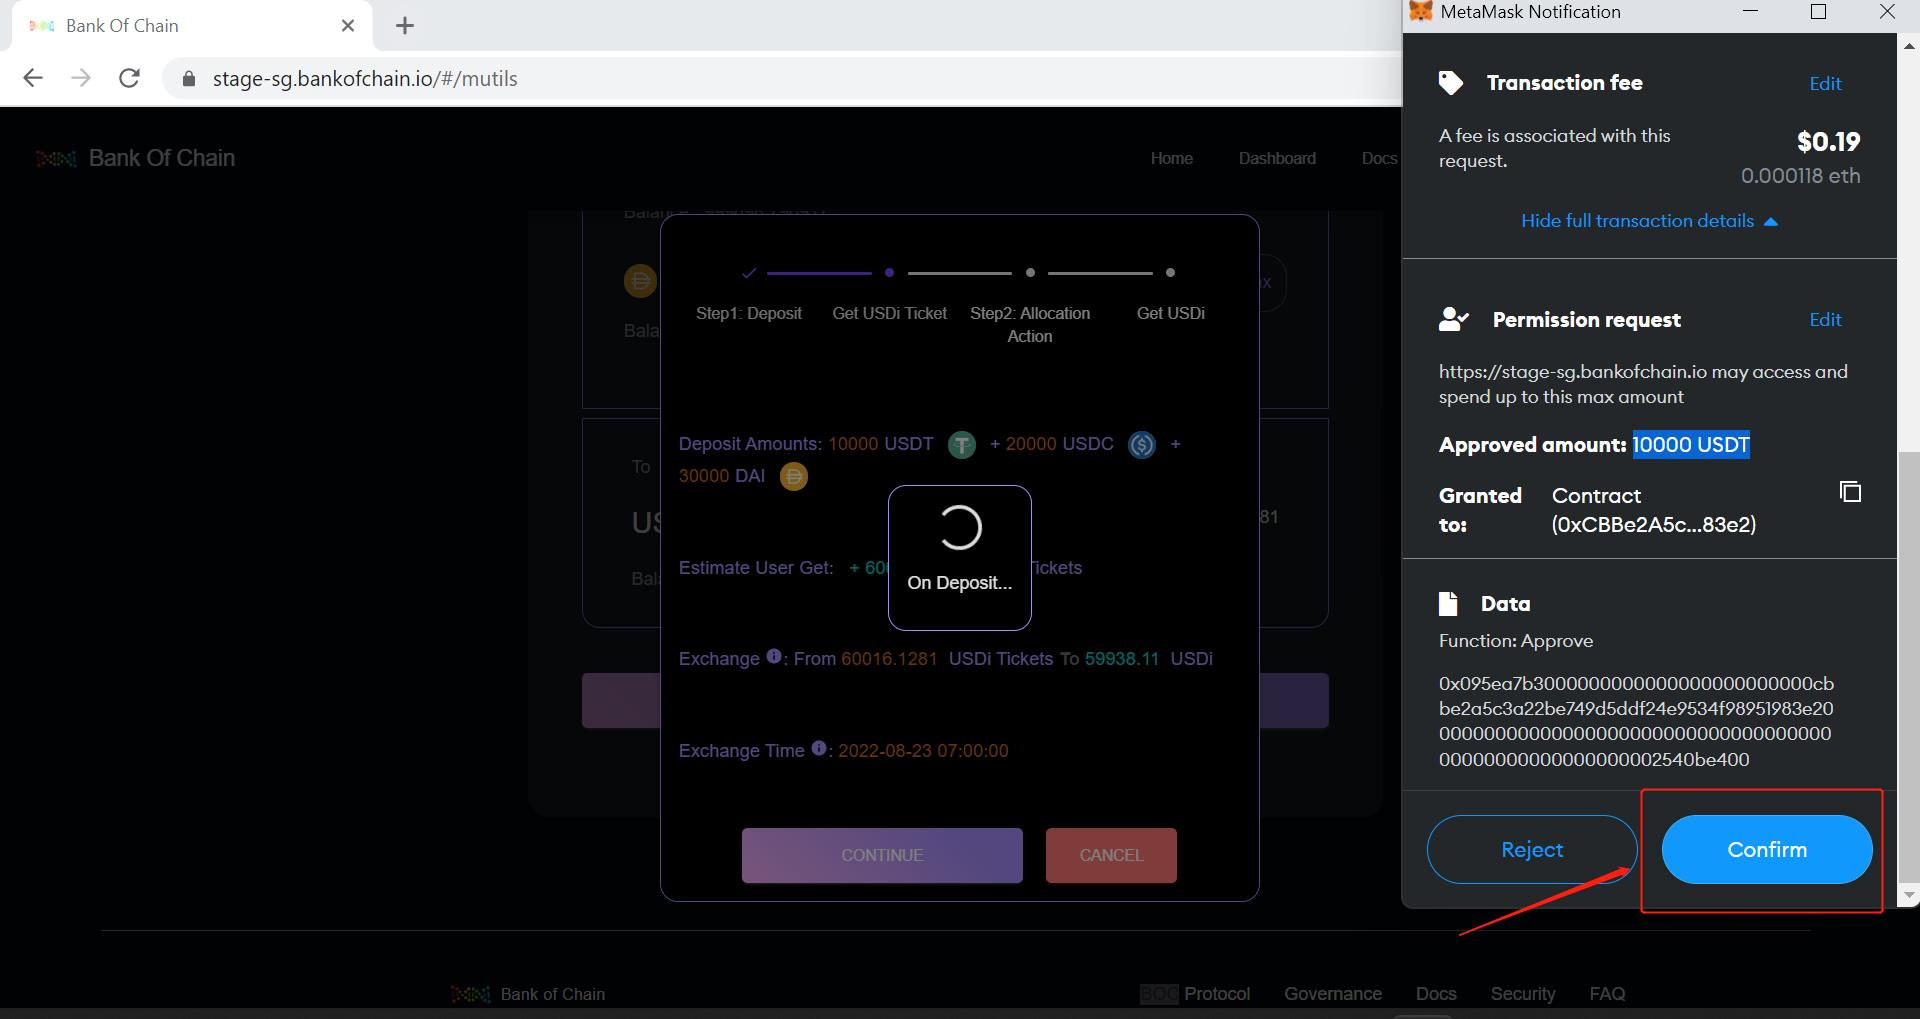
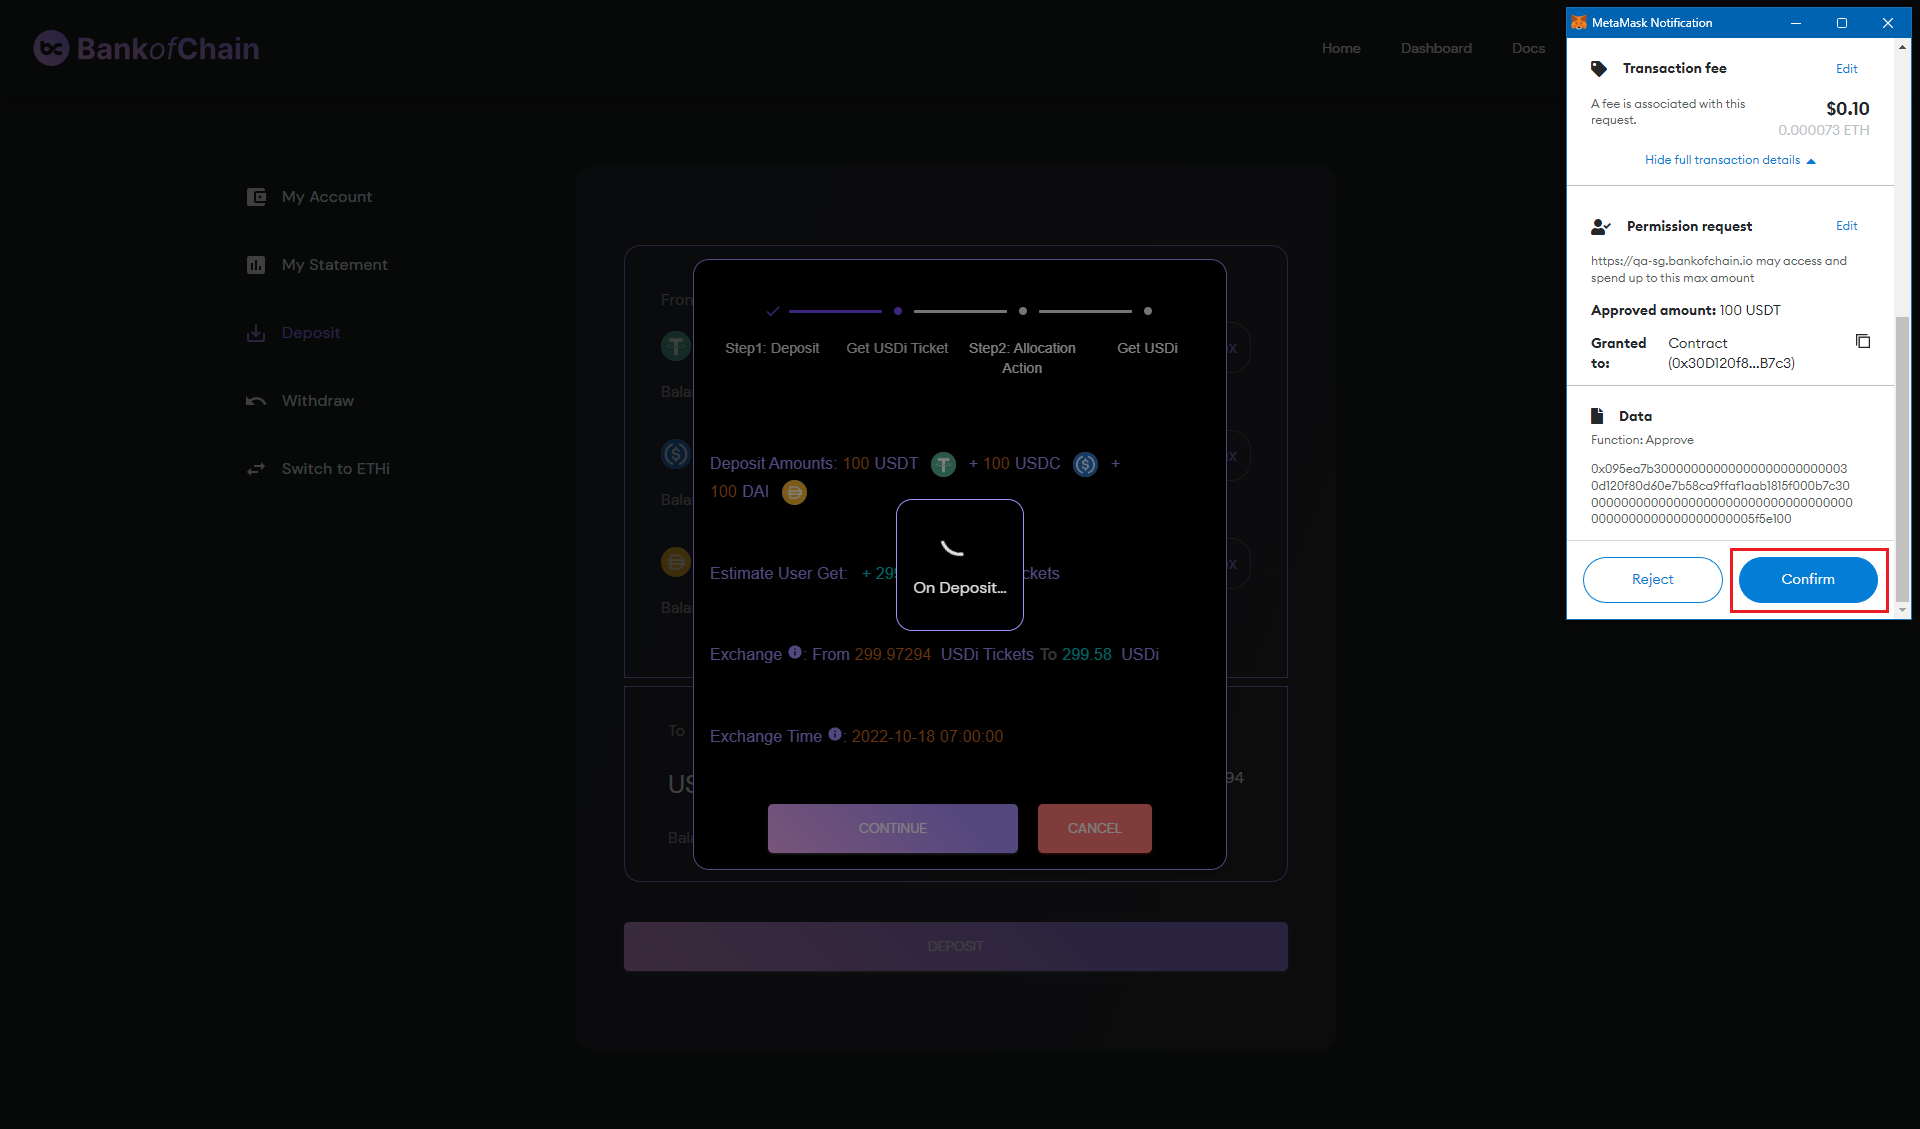
GitBook: [#46] user_handbook update

diff --git a/boc/user-handbook.md b/boc/user-handbook.md
@@ -4,31 +4,25 @@
 
 Here is a quick guide on interacting and investing with the BoC platform. To complete the investment in BoC, we first start off from the user investment page. Go to the [home page](https://bankofchain.io/#/) and click on the `LAUNCH APP` button. You will now be directed to the main page of the APP.
 
-<figure><img src="../.gitbook/assets/user_handbook_LaunchApp1.png" alt=""><figcaption></figcaption></figure>
+<figure><img src="../.gitbook/assets/user_handbook_LaunchApp1.png" alt=""><figcaption><p>Figure 1: Launch App</p></figcaption></figure>
 
 ### Wallet Connection
 
 We can interact with BoC through [wallets](../more/appendix.md#wallet). The APP is compatible with [MetaMask](https://metamask.io/) and [WalletConnect](https://walletconnect.com/). By clicking on the `CONNECT WALLET` button, your wallet could be connected.
 
-![](../.gitbook/assets/user\_handbook\_ConnectWallet.png)
+<figure><img src="../.gitbook/assets/user_handbook_ConnectWallet (1).png" alt=""><figcaption><p>Figure 2: Connect Wallet</p></figcaption></figure>
 
 If your wallet has been successfully connected, your wallet address will appear on the `CONNECT WALLET` button.
 
-![](../.gitbook/assets/user\_handbook\_wallet\_connected.png)
+<figure><img src="../.gitbook/assets/user_handbook_wallet_connected.png" alt=""><figcaption><p>Figure 3: Wallet successfully connected, with the wallet address being displayed.</p></figcaption></figure>
 
 ### Parameter Settings
 
-#### Cross-chain Bridge
-
-BoC provides two [cross-chain bridge](../more/appendix.md#bridge) options, which are the Polygon Bridge and the BNB Bridge, to fulfil the demand of cross-chain operations.
-
-![](../.gitbook/assets/user\_handbook\_bridge.png)
-
 #### Switch Chain
 
-At present, BoC works on Ethereum, BNB Chain and Polygon. If chain switching is required, this could be carried out by clicking on `NETWORKS` to select the desired chain to be switched to.
+At present, BoC works on Ethereum chain only. The deployment of Polygon chain is currently under progress. Once Polygon has been deployed, if chain switching is required, this could be carried out by clicking on `NETWORKS` to select the desired chain to be switched to.
 
-![](../.gitbook/assets/user\_handbook\_network.png)
+<figure><img src="../.gitbook/assets/user_handbook_network.png" alt=""><figcaption><p>Figure 4: Chain switching.</p></figcaption></figure>
 
 ### Investment and Redemption
 
@@ -36,37 +30,33 @@ At present, BoC works on Ethereum, BNB Chain and Polygon. If chain switching is 
 
 Once your wallet has been successfully connected, you can deposit by entering the desired amount of any combinations of the stablecoin. The figure below uses `USDi Vault` as an example. Under the `DEPOSIT` tab, we have the stablecoins to be used (USDT, UTDC & DAI). By entering the desired amount for each and clicking on `DEPOSIT`, depositing is hence completed.
 
-![](../.gitbook/assets/user\_handbook\_deposit2.png)
+<figure><img src="../.gitbook/assets/user_handbook_deposit.png" alt=""><figcaption><p>Figure 5: BoC depositing page.</p></figcaption></figure>
 
-To demonstrate, we will deposit 10000 USDT, 20000 USDC and 30000 DAI into the protocol. The steps are illustrated by the four screenshots as follows:
+To demonstrate, we will deposit 100 USDT, 100 USDC and 100 DAI into the protocol. The steps are illustrated by the four screenshots as follows:
 
-**Figure 1:** Enter the desired amount for each type of stablecoins.
+<figure><img src="../.gitbook/assets/user_handbook_deposit_exp.png" alt=""><figcaption><p>Figure 6: Enter the desired amount for each type of stablecoins.</p></figcaption></figure>
 
-![Figure 1](../.gitbook/assets/user\_handbook\_deposit\_exp.png)
+After hitting the `DEPOSIT` button, proceed to the next step to obtain the USDi ticket and to reconfirm the deposit amounts.&#x20;
 
-**Figure 2:** After hitting the `DEPOSIT` button, proceed to the next step to obtain the USDi ticket and to reconfirm the deposit amounts.&#x20;
+<figure><img src="../.gitbook/assets/user_handbook_est_USDi_ticket.png" alt=""><figcaption><p>Figure 7: <strong></strong> Confirmation window for deposit.</p></figcaption></figure>
 
-![Figure 2](../.gitbook/assets/user\_handbook\_est\_USDi\_ticket.png)
+After hitting `CONTINUE`, the METAMASK window appears, displaying the approved amount, protocol address and other related details for confirmation. This process repeats for each stablecoins (USDT, USDC and DAI). The figure here shows that of USDT.
 
-**Figure 3:** After hitting `CONTINUE`, the METAMASK window appears, displaying the approved amount, protocol address and other related details for confirmation. This process repeats for each stablecoins (USDT, USDC and DAI). Figure 3 here only displays that of USDT.
-
-![Figure 3](../.gitbook/assets/user\_handbook\_deposit\_confirmation.png)
+<figure><img src="../.gitbook/assets/user_handbook_deposit_confirmation.png" alt=""><figcaption><p>Figure 8: METAMASK window for transaction and gas fee approval.</p></figcaption></figure>
 
 After confirming on the details, you shall be redirected to the deposit main page. If the stablecoins have been successfully deposited into the Vault, your current balance of each stablecoin should be updated and displayed as shown. The BoC protocol will allocate your funds into third-party protocols based on the fund allocation rules, which prioritizes liquidity pool of higher yields and adjusts automatically to ensure the most cost-efficient position. During this allocation process, your USDi ticket balance will be shown on-screen.
 
-**Figure 4:** USDi ticket balance during fund allocation.
-
-![Figure 4](../.gitbook/assets/user\_handbook\_deposit\_completed.png)
+<figure><img src="../.gitbook/assets/user_handbook_deposit_completed.png" alt=""><figcaption><p>Figure 9: USDi ticket balance during fund allocation.</p></figcaption></figure>
 
 After the fund allocation, the protocol exchanges the USDi ticket for USDi. After deducting the first allocation fee, USDi will then be distributed into your account, with the balance now viewable.
 
 By hitting the `Switch to ETHi` tab, users will be directed to the ETHi Vault page for ETH depositing.
 
-![](../.gitbook/assets/user\_handbook\_switchtoETHi.png)
+<figure><img src="../.gitbook/assets/user_handbook_switchtoETHi.png" alt=""><figcaption><p>Figure 10: Switching to ETHi</p></figcaption></figure>
 
 The figure below illustrates the ETHi page for depositing:
 
-![](../.gitbook/assets/user\_handbook\_ETHi.png)
+<figure><img src="../.gitbook/assets/user_handbook_ETHi.png" alt=""><figcaption><p>Figure 11: ETHi depositing page</p></figcaption></figure>
 
 As on the ETHi Vault, you could only invest ETH by entering the desired amount and clicking on `DEPOSIT`. The main difference between the ETHi Vault and the USDi Vault is that the former has a gas fee estimation, as shown in the figure above.
 
@@ -74,47 +64,53 @@ As on the ETHi Vault, you could only invest ETH by entering the desired amount a
 
 After successfully depositing and ensuring that your wallet remains connected, you are now prepared to withdraw your funds. For instance on the USDi Vault, there is an option to either withdraw a single type of stablecoin or mixed. You are also required to enter the desired amount of each stablecoin to withdraw or you could simply select `Max` to withdraw all funds. After all parameters were entered correctly, you then proceed and click `WITHDRAW`.
 
-![](../.gitbook/assets/user\_handbook\_withdraw\_exp.png)
+To demonstrate, we will withdraw all USDi into USDC by selecting `MAX` and hit `WITHDRAW` :
 
-To demonstrate, we will withdraw 40000 USDi into USDC. Withdrawal steps are illustrated by the three screenshots below:
+<figure><img src="../.gitbook/assets/user_handbook_withdraw_exp.png" alt=""><figcaption><p>Figure 12: Withdraw all USDi from BoC vault.</p></figcaption></figure>
 
-**Figure 1:** Set the USDi amount to 40000 and select USDC as the stablecoin type before hitting `WITHDRAW`.
+After hitting `WITHDRAW` the METAMASK window appears, displaying details such as the estimated gas fee for confirmation.
 
-![Figure 1](../.gitbook/assets/user\_handbook\_withdraw\_process.png)
+<figure><img src="../.gitbook/assets/user_handbook_withdraw_confirmation (1).png" alt=""><figcaption><p>Figure 14: METAMASK window for gas fee approval.</p></figcaption></figure>
 
-**Figure 2:** After hitting `WITHDRAW` the METAMASK window appears, displaying details such as the estimated gas fee for confirmation.
+After confirming on the details, you will be redirected to the withdrawal main page. You can then check to confirm whether withdrawal was successful by referring to the updated USDi balance.
 
-![Figure 2](../.gitbook/assets/user\_handbook\_withdraw\_confirmation.png)
+Since all USDi were withdrawn, the USDi balance will appear as zero here:
 
-**Figure 3:** After confirming on the details, you will be redirected to the withdrawal main page. You can then check to confirm whether withdrawal was successful by referring to the updated USDi balance.
+<figure><img src="../.gitbook/assets/user_handbook_withdraw_complete.png" alt=""><figcaption><p>Figure 15: USDi balance being shown on screen.</p></figcaption></figure>
 
-![Figure 3](../.gitbook/assets/user\_handbook\_withdraw\_complete.png)
+After withdrawing has completed, there will be a pop-up window allowing users to swap tokens to the ones they desire:&#x20;
+
+<figure><img src="../.gitbook/assets/user_handbook_swaptokens.png" alt=""><figcaption><p>Figure 16: Pop-up window for tokens swapping</p></figcaption></figure>
+
+Users will be required to enter their slippage tolerance between different token currencies.
+
+By hitting `SWAP` , the METAMASK window appears, displaying details such as the estimated transaction fee and permission request for confirmation.
+
+<figure><img src="../.gitbook/assets/user_handbook_swaptokens_confirmation.png" alt=""><figcaption><p>Figure 17: METAMASK window confirming transaction fee for tokens swapping.</p></figcaption></figure>
 
 By hitting the `Switch to ETHi` tab, users will be directed to the ETHi Vault page for ETH withdrawal.
 
-![](../.gitbook/assets/user\_handbook\_switchtoETHi\_w.png)
+<figure><img src="../.gitbook/assets/user_handbook_switchtoETHi_w.png" alt=""><figcaption><p>Figure 18: Switching to ETHi</p></figcaption></figure>
 
 The figure below illustrates the ETHi page for withdrawal:
 
-![](../.gitbook/assets/user\_handbook\_ETHi\_w.png)
+<figure><img src="../.gitbook/assets/user_handbook_ETHi_w.png" alt=""><figcaption><p>Figure 19: ETHi page</p></figcaption></figure>
 
 **Exchanged**: Exchange function enablement. Each strategy in the BoC uses different stablecoins. Money is always withdrawn according to the strategy APY from low to high. If a non-USDT strategy is obtained, the stable currency of the corresponding strategy will be returned, e.g., if Yearn LUSD is obtained, LUSD will be returned and if the exchange is closed, the corresponding value of LUSD will be returned to your account. If redemption is enabled, the Slippage parameter needs to be set.
 
 #### Withdrawal Advanced Parameters
 
-![](../.gitbook/assets/user\_handbook\_advancedPara.png)
+<figure><img src="../.gitbook/assets/user_handbook_withdrawal_ap.png" alt=""><figcaption><p>Figure 20: Withdrawal advanced parameter (Max Loss)</p></figcaption></figure>
 
 The advanced setup parameters are:
 
 **Max Loss**: The maximum loss on withdrawals. When we specify the amount of USDi to withdraw, the total assets at the current net value will be displayed, but these are not the funds that we would obtain eventually. Losses might also occur during the withdrawal process. These include the exchange slippage losses. If our total assets are estimated to be $1000 currently, and we choose the Max Loss to be 0.3%, then we will gain at least $997.
 
-**Slippage**: [Slippage](../more/appendix.md#slippage) between different currencies. After enabling Exchanged, we need to specify the slippage that we could accept.
-
 #### Adding USDi and ETHi to your wallet
 
 If the USDi tokens deposited are not visible in your wallet, you will be required to import the tokens manually. As illustrated in the figure below, hit the `+` sign followed by `Add Token`.
 
-![](../.gitbook/assets/user\_handbook\_addtoken\_manual.png)
+<figure><img src="../.gitbook/assets/user_handbook_addtoken_manual (1).png" alt=""><figcaption><p>Figure 21: Add USDi tokens manually.</p></figcaption></figure>
 
 See here for detailed tutorials:
 
@@ -122,15 +118,15 @@ See here for detailed tutorials:
 
 Analogously, ETHi can also be added to the wallet by following the same procedure.
 
-![](../.gitbook/assets/user\_handbook\_add\_token\_manual\_ETHi.png)
+<figure><img src="../.gitbook/assets/user_handbook_add_token_manual_ETHi.png" alt=""><figcaption><p>Figure 22: Add ETHi tokens manually.</p></figcaption></figure>
 
 ### Dashboard
 
 From the [dashboard](../more/appendix.md#dashboard) you could obtain the next relevant information regarding your assets and protocols that interact with them.
 
-[https://dashboard.bankofchain.io](https://dashboard.bankofchain.io)
+{% embed url="https://dashboard.bankofchain.io" %}
 
-![](../.gitbook/assets/user\_handbook\_dashboard.png)
+<figure><img src="../.gitbook/assets/user_handbook_dashboard.png" alt=""><figcaption><p>Figure 23: BoC Dashboard</p></figcaption></figure>
 
 The data presented are described as follows:
 
@@ -154,9 +150,9 @@ BoC subgraph:
 
 ### Strategy Details
 
-Using UniswapV3UsdcUsdt500Strategy as an example, enter the strategy details page as shown in the figure:
+Using ConvexIBUsdtCHfStrategy as an example, enter the strategy details page as shown in the figure:
 
-![](../.gitbook/assets/user\_handbook\_strategy\_details.png)
+<figure><img src="../.gitbook/assets/user_handbook_strategy.png" alt=""><figcaption><p>Figure 24: BoC strategy page</p></figcaption></figure>
 
 The data presented are described as follows:
 
@@ -179,19 +175,17 @@ The data presented are described as follows:
 
 ### Personal Investment Analysis
 
-Enter the personal investment analysis page to see the personal investment income.
+On the main page, go to `My Statement` to view the personal investment profits and other details:
 
-![](../.gitbook/assets/user\_handbook\_personal\_dashboard.png)
+<figure><img src="../.gitbook/assets/user_handbook_personal_dashboard.png" alt=""><figcaption><p>Figure 25: My Statement page</p></figcaption></figure>
 
 The data presented are described as follows:
 
-1. Personal USDi balance.
-2. To-harvest profit generated by third-party strategies, which transforms into realized profit once harvest is successfully executed (calculated in USDi).
-3. Withdrawable profit in the BoC Vault gained after harvest (calculated in USDi).
-4. Last 7 days [APY](../more/appendix.md#annual-yield-apy).
-5. Last 30 days APY.
-6. Daily USDi amount.
-7. Monthly income.
+1. Withdrawable profit in the BoC Vault gained after harvest (calculated in USDi).
+2. Last 7 days [APY](../more/appendix.md#annual-yield-apy).
+3. Last 30 days APY.
+4. USDi variation curve displaying the USDi amount on each day.
+5. Daily/ Weekly/ Monthly profits.
 
 ## Withdrawal of funds from BoC Alpha version UI.
 
